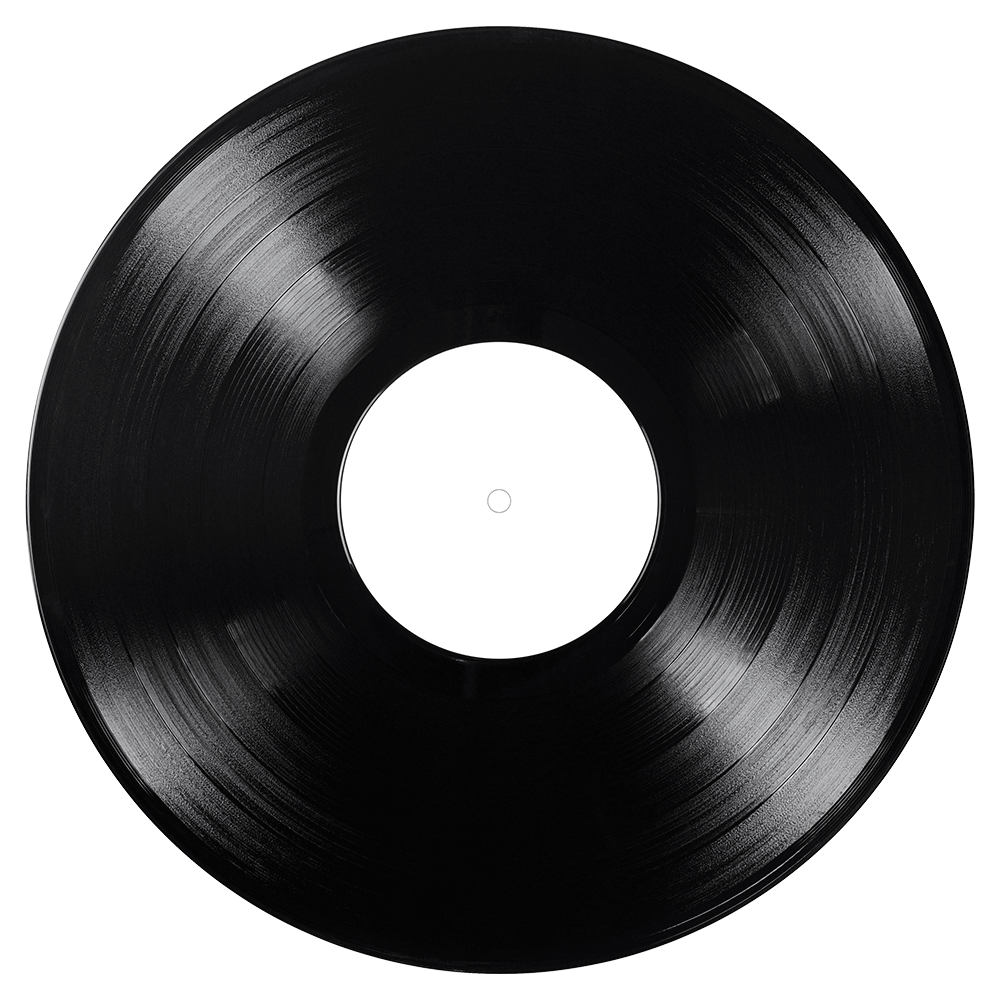
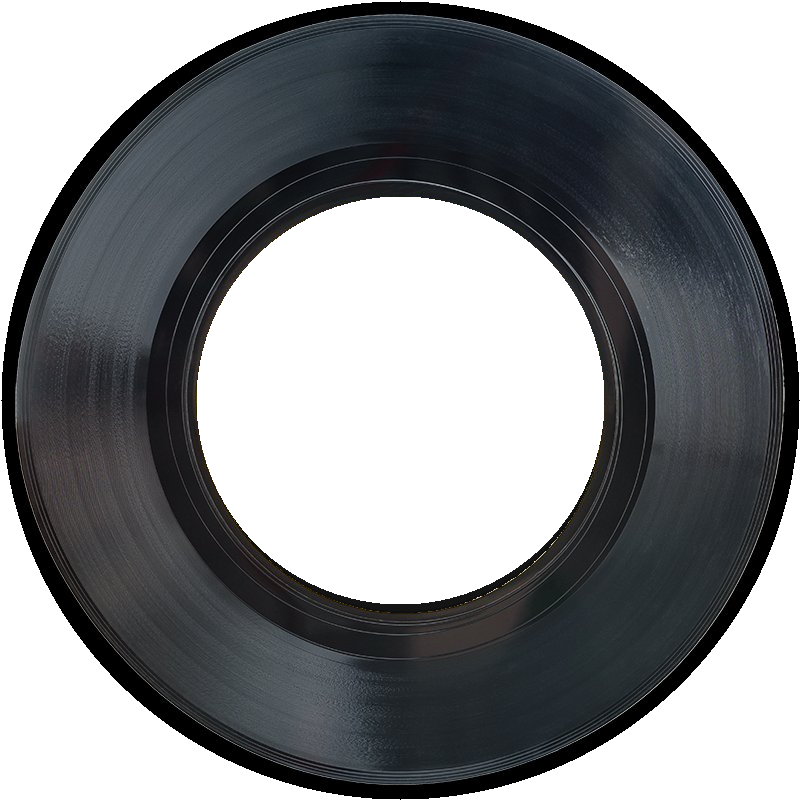
feat: upgrade to transparent-center groove ring, bigger vinyl with fitted label
- Replace vinyl-grooves.png with donut version (transparent center hole)
- Label ratio 0.52 fills the hole snugly with correct proportions
- Default VinylDisc size 320→512 (1.6x as requested)
- Step1Form disc size 280→448 (1.6x)
- Text overlay (name + playlist) positions adjusted for new label scale

diff --git a/components/vinyl/VinylDisc.tsx b/components/vinyl/VinylDisc.tsx
@@ -12,15 +12,15 @@ interface Props {
   size?: number
 }
 
-export default function VinylDisc({ name = '', playlistName = '', size = 320 }: Props) {
-  // The label sits in the centre and covers ~46% of the disc diameter
-  const labelSize = size * 0.46
+export default function VinylDisc({ name = '', playlistName = '', size = 512 }: Props) {
+  // The donut hole is ~52% of the disc diameter — label fills it snugly
+  const labelSize = size * 0.52
   const labelOffset = (size - labelSize) / 2
 
   // Text positioning within the label (upper half, above the STEREO bar)
   const labelCentreX = size / 2
-  // "by name" sits about 28% from top of the label area
-  const nameY = labelOffset + labelSize * 0.28
+  // "by name" sits about 26% from top of the label area
+  const nameY = labelOffset + labelSize * 0.26
   // Playlist name sits about 40% from top of label area
   const playlistY = labelOffset + labelSize * 0.42
 

diff --git a/components/steps/Step1Form.tsx b/components/steps/Step1Form.tsx
@@ -14,7 +14,7 @@ export default function Step1Form({ onBack, onNext }: Props) {
     <div className="flex flex-col items-center">
       <h2 className="font-jacquarda text-xl text-gray-700 mb-6 tracking-wider">Your vinyl detail</h2>
 
-      <VinylDisc name={name} playlistName={playlistName} size={280} />
+      <VinylDisc name={name} playlistName={playlistName} size={448} />
 
       <div className="mt-8 flex flex-col gap-4 w-full max-w-sm">
         <div className="flex items-center gap-4">